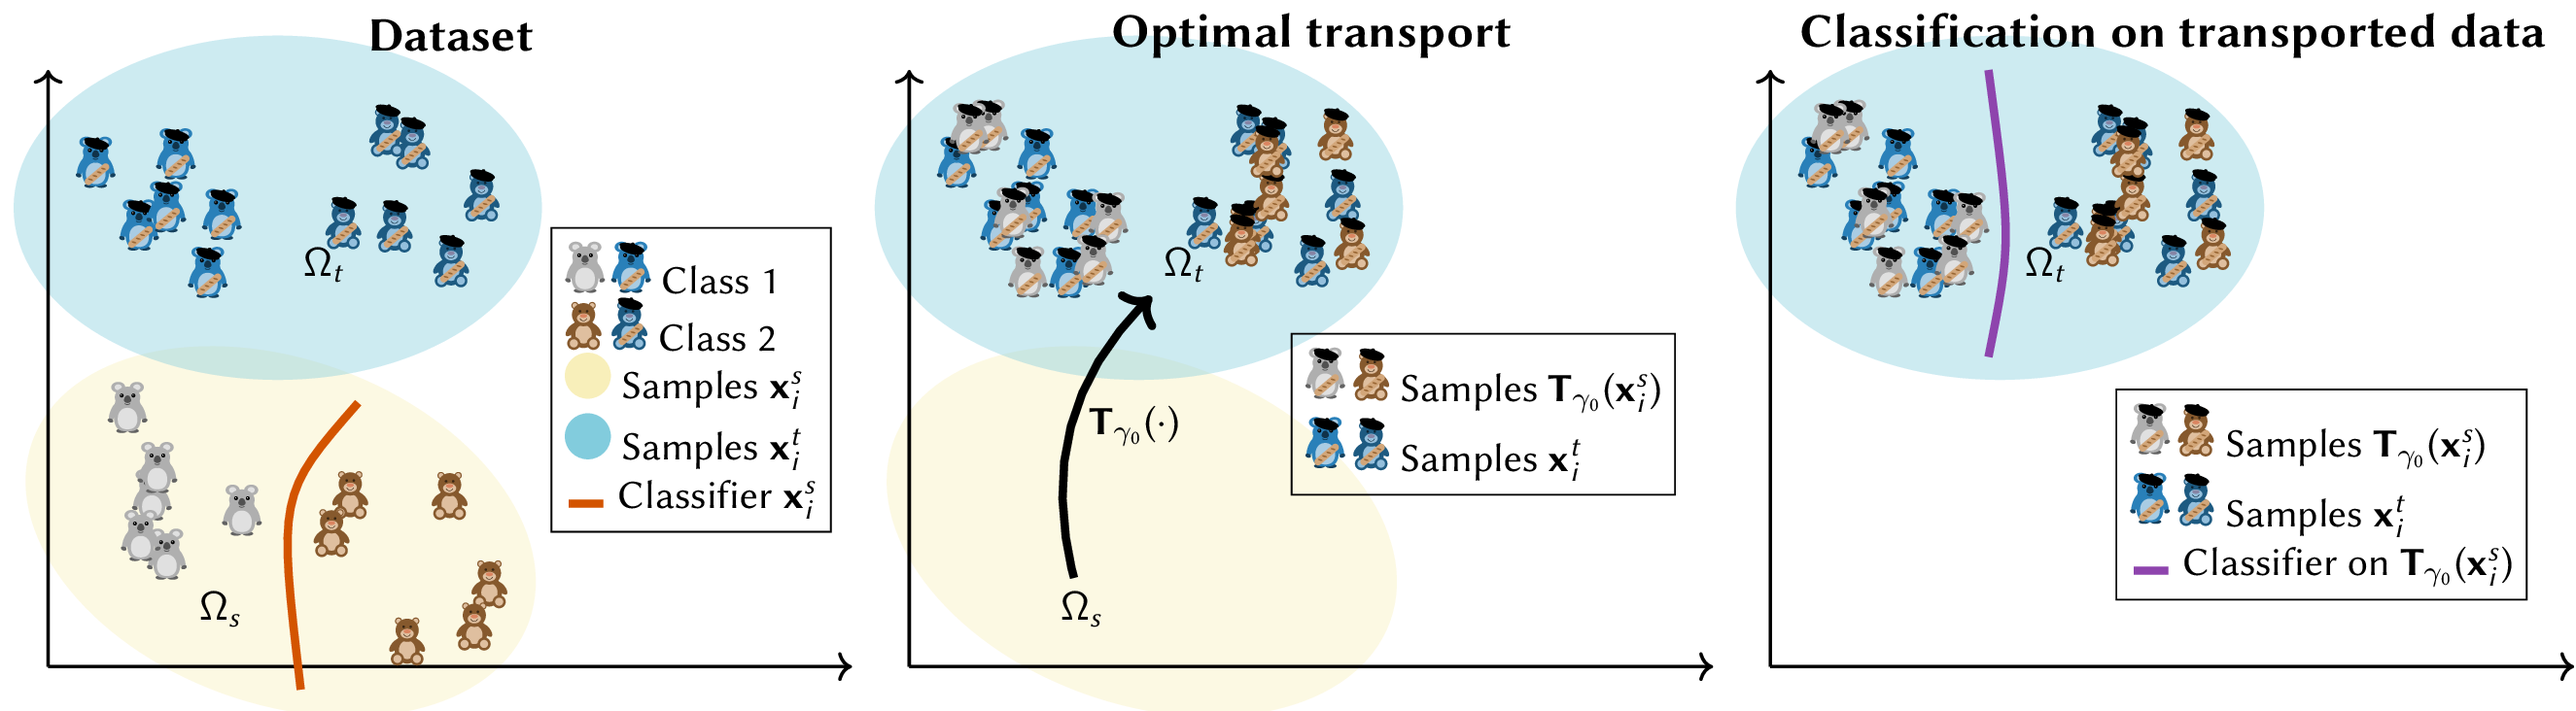
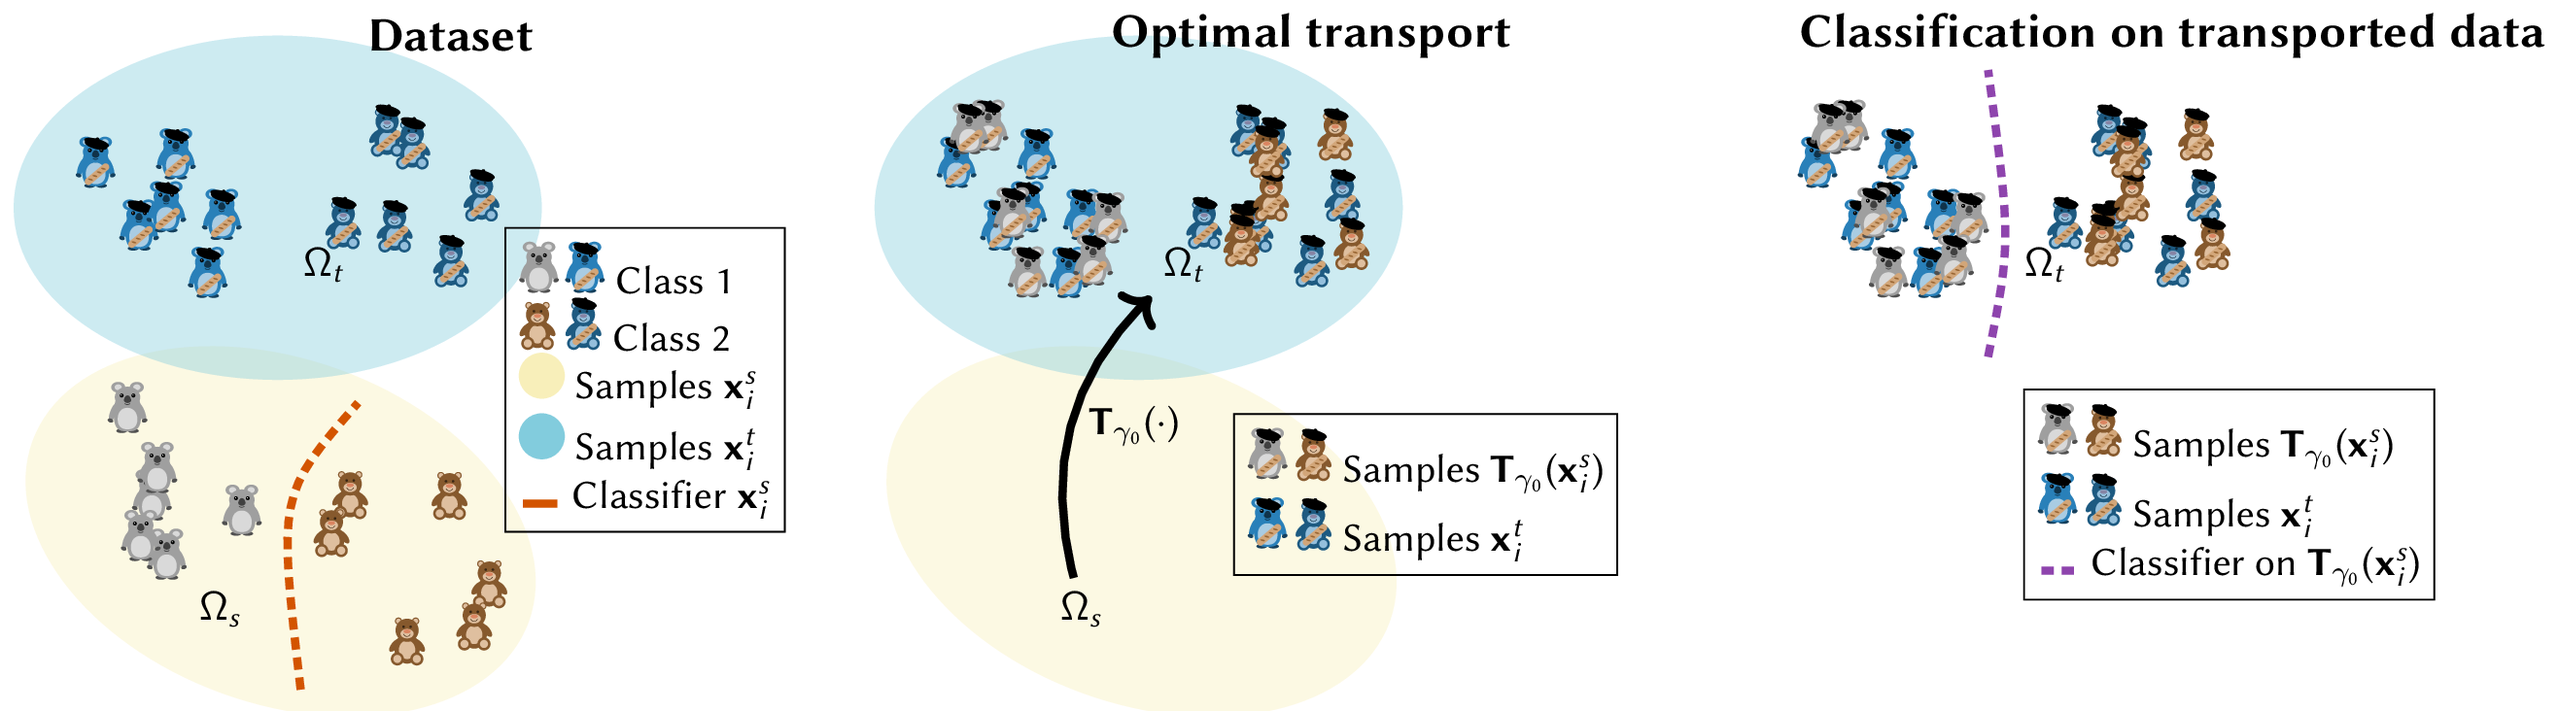
shrink

diff --git a/main.tex b/main.tex
@@ -25,8 +25,8 @@
 \fill [mylightbeige, rotate=-20, opacity=0.4] (1.5,1.8) ellipse (2.3 and 1.5); 
 \fill [mylightblue, opacity=0.4] (2, 4) ellipse (2.3 and 1.5);
 
-\draw[thick,->] (0,0) -- (7,0);
-\draw[thick,->] (0,0) -- (0,5.2);
+%\draw[thick,->] (0,0) -- (7,0);
+%\draw[thick,->] (0,0) -- (0,5.2);
 
 \foreach \x in {1,2,...,6}{
 	\pgfmathsetmacro{\mxs}{30+20*rand}
@@ -40,15 +40,15 @@
 	\koala[xshift=30+20*rand, yshift=40+20*rand,scale=0.2];
 	\bear[xshift=90+20*rand, yshift=20+20*rand,scale=0.2]}
 
-\draw[line width=2, myorange] (2.2,-0.2)  .. controls (2,1.5) ..  (2.7,2.3);
+\draw[line width=2, myorange, densely dashed] (2.2,-0.2)  .. controls (2,1.5) ..  (2.7,2.3);
 \node  at (1.5,0.5) {$\Omega_s$};
 \node  at (2.4,3.5) {$\Omega_t$};
-\node[draw,align=left] at (5.6,2.5) {
+\node[draw,align=left] at (5.2,2.5) {
 \tikz{\koala[scale=0.2];\koala[body=myblue,baguette,beret,xshift=.4cm,scale=0.2]} Class 1\\ 
 \tikz{\bear[scale=0.2];\bear[body=myblue,baguette,beret,xshift=.4cm,scale=0.2]}  Class 2\\ 
 \tikz{\fill [mylightbeige] (0,0) ellipse (0.2 and 0.2)} Samples $\boldsymbol{x}_i^s$\\
 \tikz{\fill [mylightblue] (0,0) ellipse (0.2 and 0.2)} Samples $\boldsymbol{x}_i^t$\\  
-\tikz{\draw[line width=2, myorange] (0,0cm) -- (0.3,0cm)} Classifier  $\boldsymbol{x}_i^s$
+\tikz{\draw[line width=2, myorange, densely dashed] (0,0cm) -- (0.3,0cm)} Classifier  $\boldsymbol{x}_i^s$
 };
 \node at (3.5,5.5) {\bf  \large Dataset};
 \end{scope}
@@ -59,8 +59,6 @@
 \fill [mylightbeige, rotate=-20, opacity=0.4] (1.5,1.8) ellipse (2.3 and 1.5); 
 \fill [mylightblue, opacity=0.4] (2, 4) ellipse (2.3 and 1.5);
 
-\draw[thick,->] (0,0) -- (7,0);
-\draw[thick,->] (0,0) -- (0,5.2);
 
 \foreach \x in {1,2,...,6}{
 	\pgfmathsetmacro{\mxs}{30+20*rand}
@@ -81,7 +79,7 @@
 \node (source)  at (1.5,0.5) {$\Omega_s$};
 \node (target)  at (2.4,3.5) {$\Omega_t$};
 \draw[line width=2,->]  (source) to [bend left] node[right]   {$\boldsymbol{T}_{\gamma_0}(\cdot)$} (target);
-\node[draw,align=left] at (5,2.2) {
+\node[draw,align=left] at (4.5,1.5) {
 \tikz{\koala[baguette,beret,scale=0.2];\bear[baguette,beret,xshift=.4cm,scale=0.2]} Samples $\boldsymbol{T}_{\gamma_0}(\boldsymbol{x}_i^s)$\\ 
 \tikz{\koala[body=myblue,baguette,beret,scale=0.2];\bear[body=myblue,baguette,beret,xshift=.4cm,scale=0.2]}  Samples $\boldsymbol{x}_i^t$
 };
@@ -90,9 +88,6 @@
 
 \pgfmathsetseed{3}
 \begin{scope}[xshift=15cm]
-\fill [mylightblue, opacity=0.4] (2, 4) ellipse (2.3 and 1.5);
-\draw[thick,->] (0,0) -- (7,0);
-\draw[thick,->] (0,0) -- (0,5.2);
 
 \foreach \x in {1,2,...,6}{
 	\pgfmathsetmacro{\mxs}{30+20*rand}
@@ -110,25 +105,19 @@
 	\koala[baguette,beret,xshift=\mxs, yshift=\mys,scale=0.2];
 	\bear[baguette,beret,xshift=\bxs, yshift=\bys,scale=0.2]}
 
-
-\draw[line width=2, myviolet] (1.9,2.7)  .. controls (2.1,3.7) .. (1.9,5.2);
+\draw[line width=2, myviolet,densely dashed] (1.9,2.7)  .. controls (2.1,3.7) .. (1.9,5.2);
 
 \node  at (2.4,3.5) {$\Omega_t$};
-\node[draw,align=left] at (4.8,1.5) {
+\node[draw,align=left] at (4,1.5) {
 \tikz{\koala[baguette,beret,scale=0.2];\bear[baguette,beret,xshift=.4cm,scale=0.2]} Samples $\boldsymbol{T}_{\gamma_0}(\boldsymbol{x}_i^s)$\\ 
 \tikz{\koala[body=myblue,baguette,beret,scale=0.2];\bear[body=myblue,baguette,beret,xshift=.4cm,scale=0.2]}  Samples $\boldsymbol{x}_i^t$\\
-\tikz{\draw[line width=2, myviolet] (0,0cm) -- (0.3,0cm)} Classifier  on $\boldsymbol{T}_{\gamma_0}(\boldsymbol{x}_i^s)$
+\tikz{\draw[line width=2, myviolet, densely dashed] (0,0cm) -- (0.3,0cm)} Classifier  on $\boldsymbol{T}_{\gamma_0}(\boldsymbol{x}_i^s)$
 };
 \node at (3.5,5.5) {\bf  \large Classification on transported data};
 \end{scope}
 
 \end{tikzpicture}
 
-
-
-
-% koala -> bear
-% marmot -
 
 
 \end{document}
